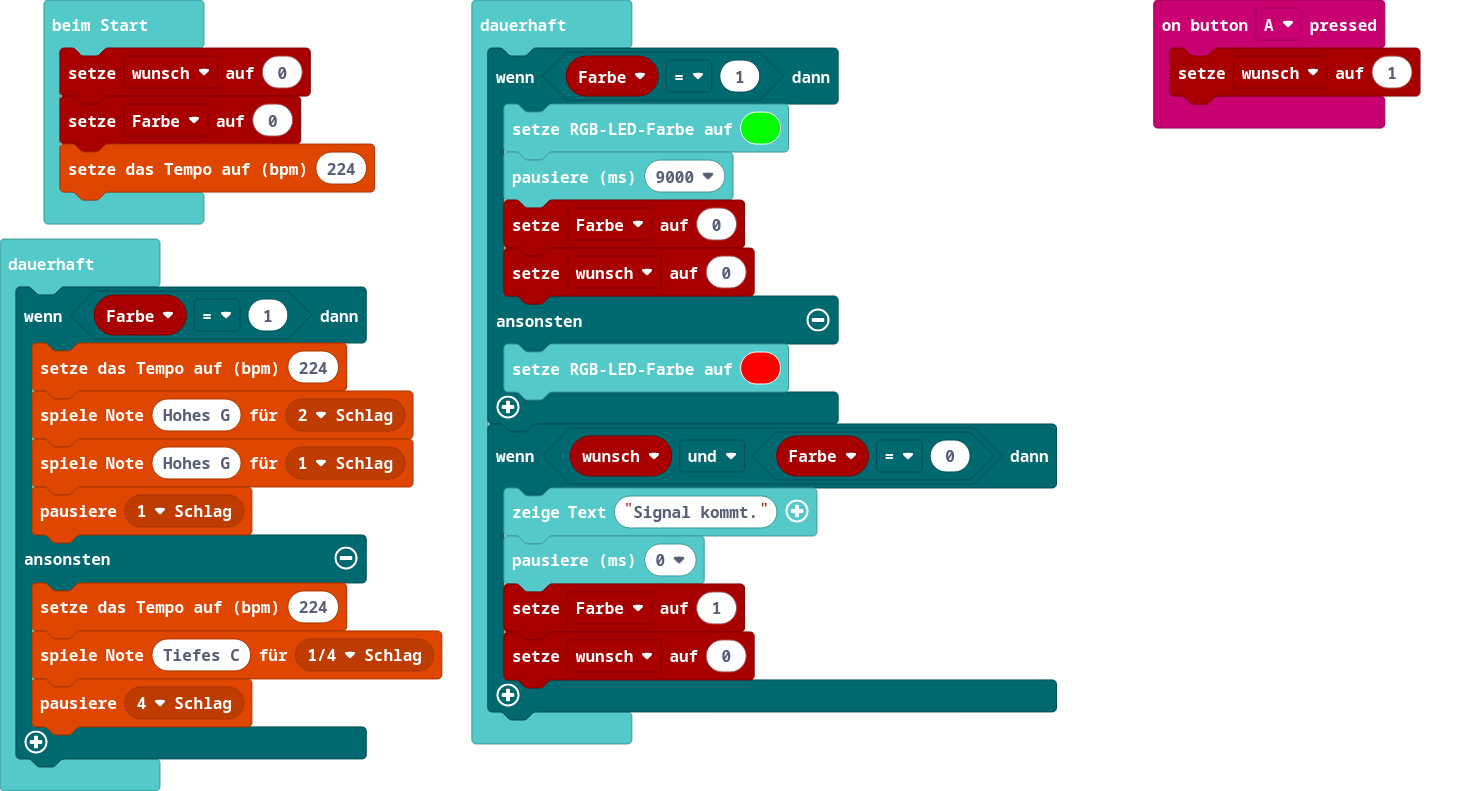
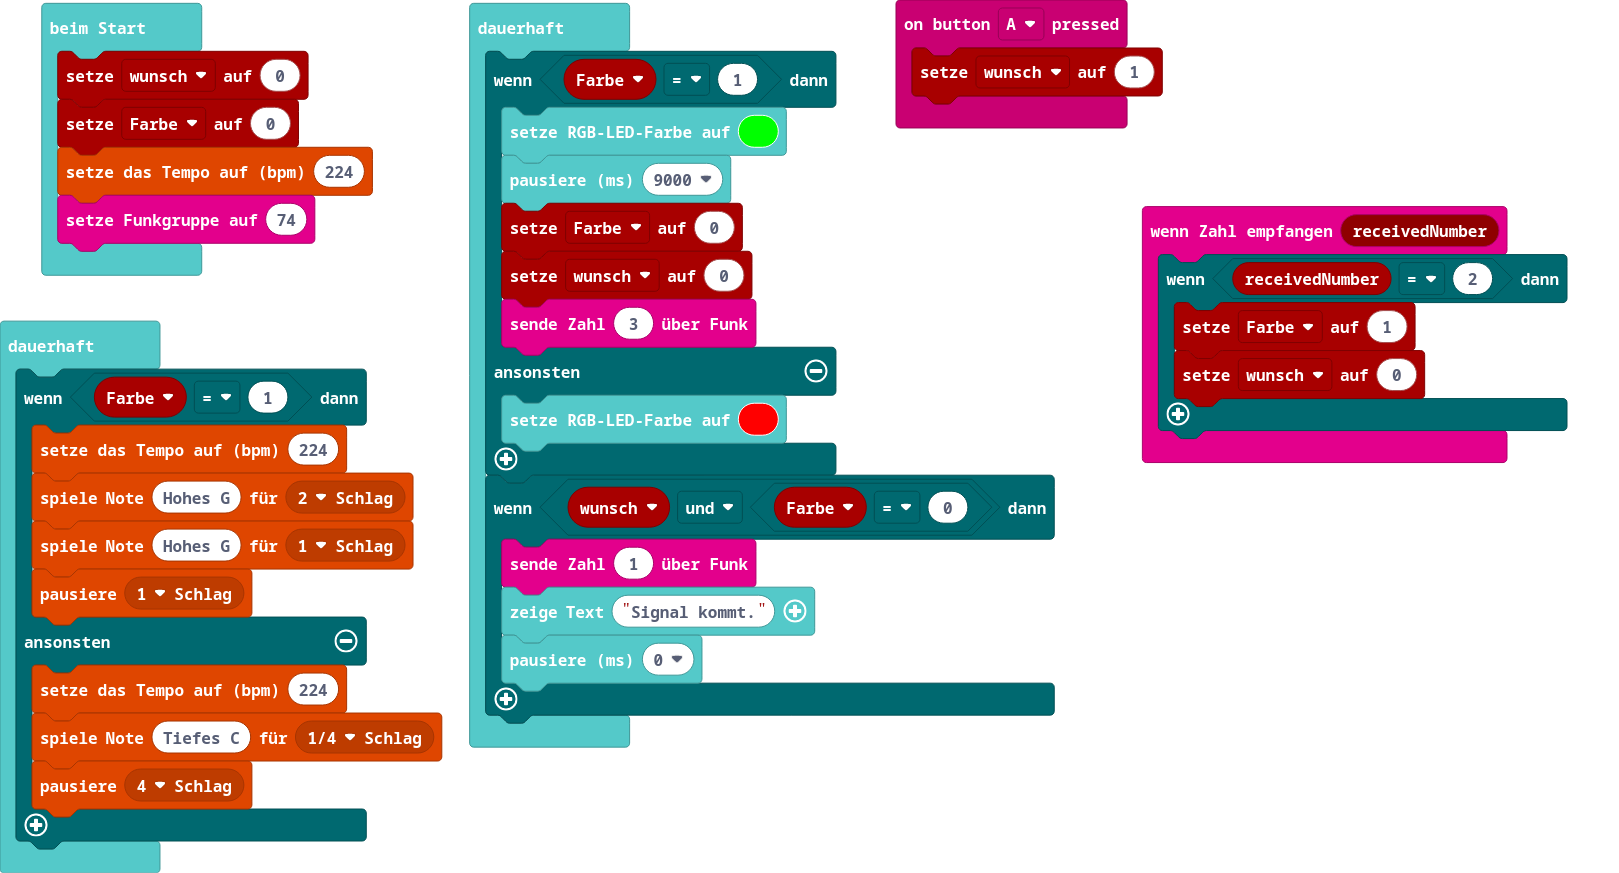
Aktualisiere pxt.json, main.blocks, main.ts, main.py

diff --git a/main.ts b/main.ts
@@ -1,24 +1,32 @@
+radio.onReceivedNumber(function (receivedNumber) {
+    if (receivedNumber == 2) {
+        Farbe = 1
+        wunsch = 0
+    }
+})
 input.onButtonPressed(Button.A, function () {
     wunsch = 1
 })
+let Farbe = 0
 let wunsch = 0
 wunsch = 0
-let Farbe = 0
+Farbe = 0
 music.setTempo(224)
+radio.setGroup(74)
 basic.forever(function () {
     if (Farbe == 1) {
         basic.setLedColor(0x00ff00)
         basic.pause(9000)
         Farbe = 0
         wunsch = 0
+        radio.sendNumber(3)
     } else {
         basic.setLedColor(0xff0000)
     }
     if (wunsch && Farbe == 0) {
+        radio.sendNumber(1)
         basic.showString("Signal kommt.")
         basic.pause(0)
-        Farbe = 1
-        wunsch = 0
     }
 })
 basic.forever(function () {

diff --git a/main.py b/main.py
@@ -1,0 +1,37 @@
+def on_button_pressed_a():
+    global wunsch
+    wunsch = 1
+input.on_button_pressed(Button.A, on_button_pressed_a)
+
+wunsch = 0
+wunsch = 0
+Farbe = 0
+music.set_tempo(224)
+
+def on_forever():
+    global Farbe, wunsch
+    if Farbe == 1:
+        basic.set_led_color(0x00ff00)
+        basic.pause(9000)
+        Farbe = 0
+        wunsch = 0
+    else:
+        basic.set_led_color(0xff0000)
+    if wunsch and Farbe == 0:
+        basic.show_string("Signal kommt.")
+        basic.pause(0)
+        Farbe = 1
+        wunsch = 0
+basic.forever(on_forever)
+
+def on_forever2():
+    if Farbe == 1:
+        music.set_tempo(224)
+        music.play_tone(784, music.beat(BeatFraction.DOUBLE))
+        music.play_tone(784, music.beat(BeatFraction.WHOLE))
+        music.rest(music.beat(BeatFraction.WHOLE))
+    else:
+        music.set_tempo(224)
+        music.play_tone(131, music.beat(BeatFraction.QUARTER))
+        music.rest(music.beat(BeatFraction.BREVE))
+basic.forever(on_forever2)
